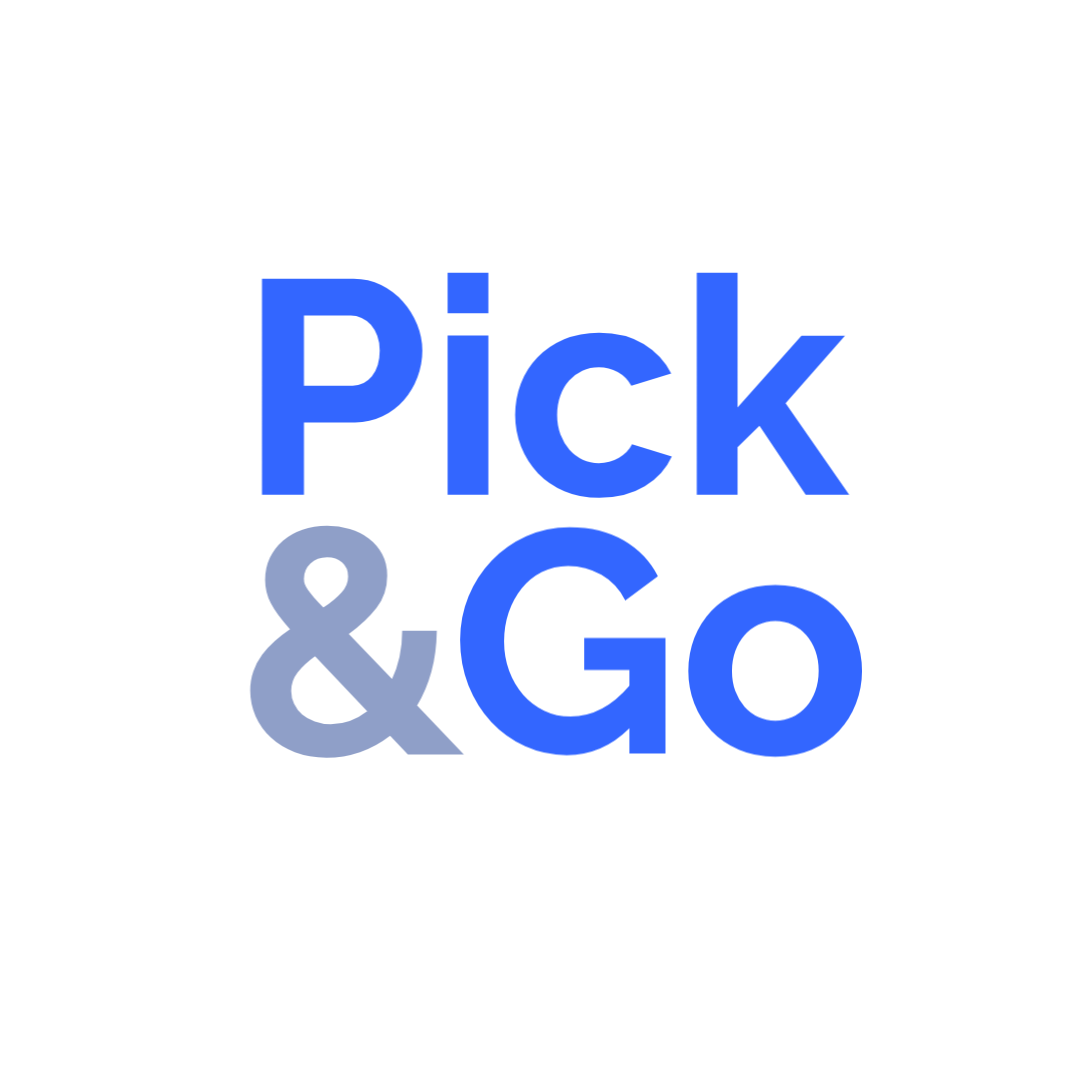
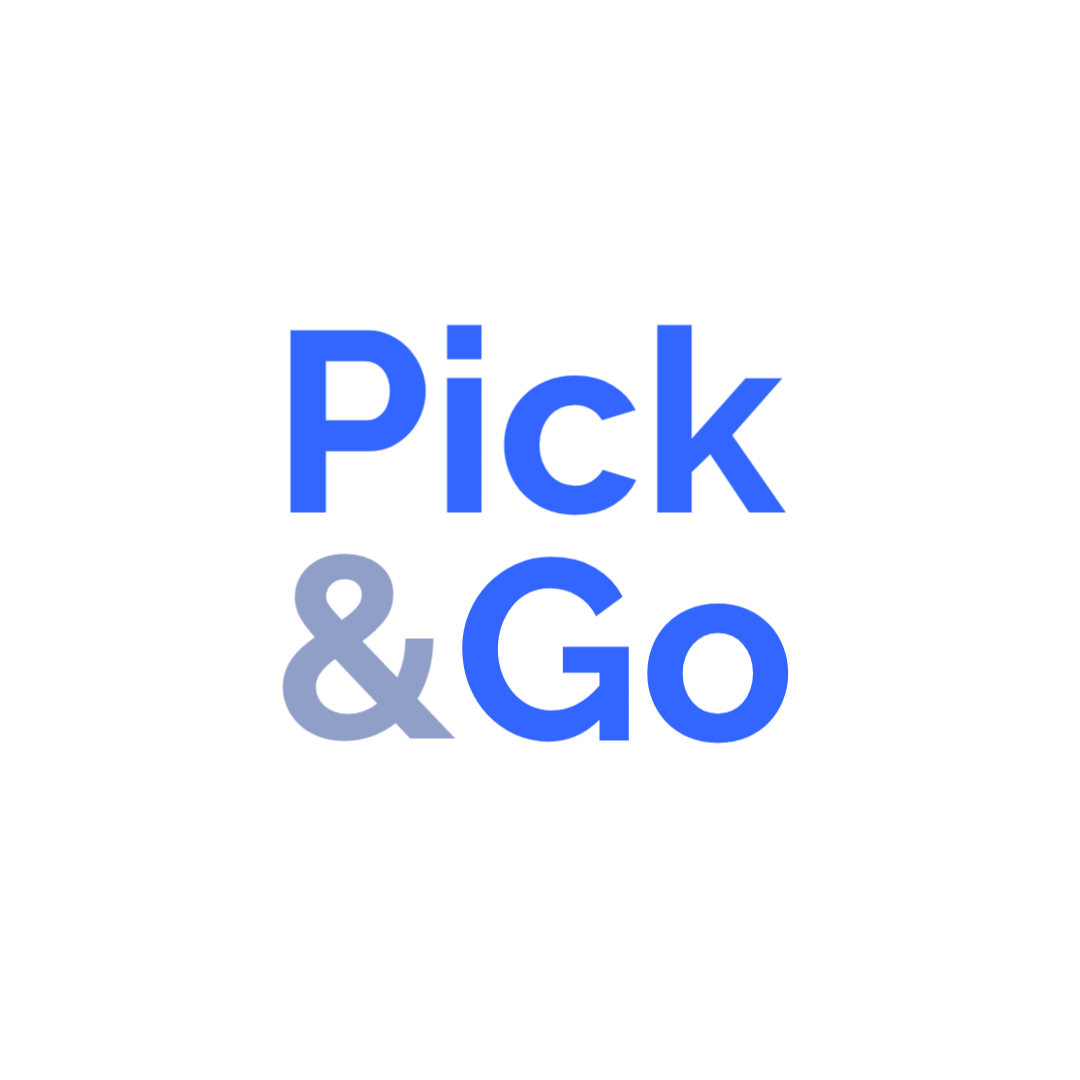
v1.1.0
-icon size adjustments

Changed region(s): [[0.2139, 0.2444, 0.825, 0.7028]]

diff --git a/README.md b/README.md
@@ -7,7 +7,7 @@
 
 <h3 align="left">Resources</h3>
 
-- 📱 Downloadable APK available <a href="https://github.com/kushenthimira/pickngo/releases/download/v1.0.0/pickngo.apk" target="blank">**here**</a>
+- 📱 Downloadable APK available <a href="https://github.com/kushenthimira/pickngo/releases/download/v1.1.0/pickngo.apk" target="blank">**here**</a>
 
 |                                                                   |                                                                   |                                                                   |
 | :---------------------------------------------------------------: | :---------------------------------------------------------------: | :---------------------------------------------------------------: |
